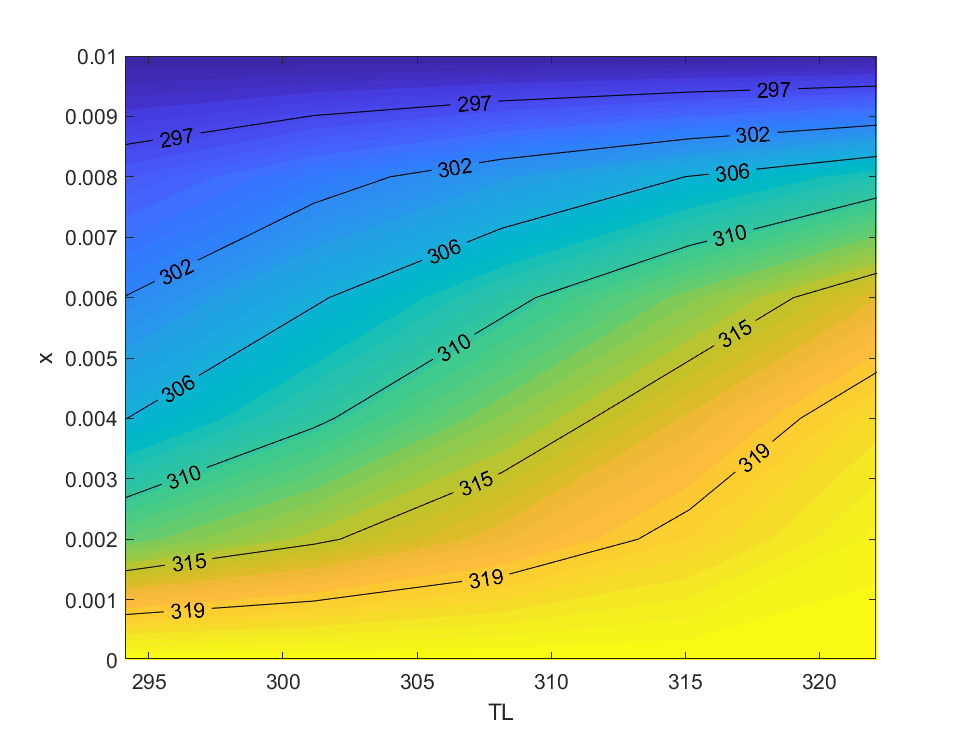
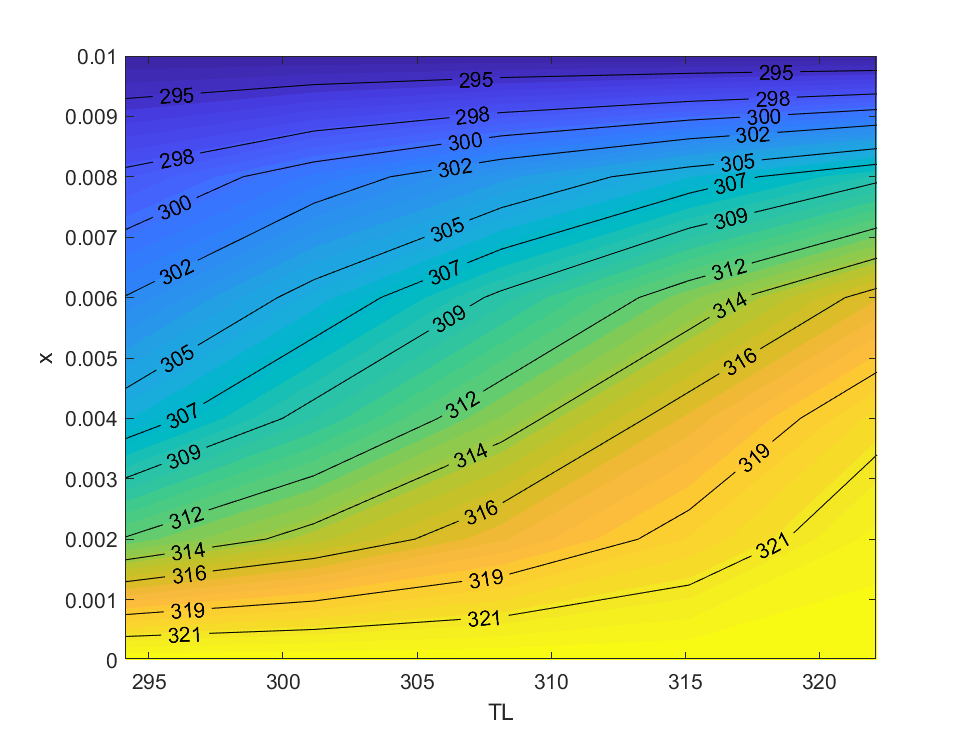
Create part2b comparison profiles to part2a.

diff --git a/part2bbatch.m b/part2bbatch.m
@@ -34,7 +34,7 @@ f11=figure('pos',[400,400,620,475]);
 [x,y,z]= compileResultProfiles(Batch,2,2);
 contourf(x,y,z,50,'ShowText','off','LineColor','none');
 hold on
-[cc,hh]=contour(x,y,z,6,'ShowText','on','LineColor','k');
+[cc,hh]=contour(x,y,z,12,'ShowText','on','LineColor','k');
 hh.LevelList=round(hh.LevelList,0);  %rounds levels to 3rd decimal place
   clabel(cc,hh)
 xlabel('TL');
@@ -55,3 +55,35 @@ ylabel('x');
 zlabel('c value');
 saveas(f12,'status/part2b_profile_Q.png');
 
+%% Compare to part2a.
+Batch2a=problemBatch(@part2a,[0.5 294.15 5],[1.5 322.15 5],[5 5 1]);
+Batch2a=solveBatch(Batch2a);
+
+%Plot difference between a and b.
+f13=figure('pos',[400,400,620,475]);
+[x,y,z]= compileResultProfiles(Batch,2,5);
+[~,~,z2a]= compileResultProfiles(Batch2a,2,5);
+z=z-z2a;
+contourf(x,y,z,50,'ShowText','off','LineColor','none');
+hold on
+[cc,hh]=contour(x,y,z,6,'ShowText','on','LineColor','k');
+hh.LevelStep=1;
+hh.LevelList=round(hh.LevelList,0);  %rounds levels to 3rd decimal place
+  clabel(cc,hh)
+xlabel('TL');
+ylabel('x');
+zlabel('c value');
+saveas(f13,'status/part2a_b_profile_comp.png');
+
+f14=figure(14);
+[x,y,z2b]= generateContorMatricies(Batch,1,2,2);
+[~,~,z2a]= generateContorMatricies(Batch2a,1,2,2);
+z=z2b-z2a;
+[cc,hh]=contourf(x,y,z,10,'ShowText','on');
+hh.LevelStep=0.2;
+hh.LevelList=round(hh.LevelList,2);  %rounds levels to 3rd decimal place
+  clabel(cc,hh)
+xlabel('Q');
+ylabel('TL');
+zlabel('c value');
+saveas(f14,'status/part2a_b_contor_comp.png');
